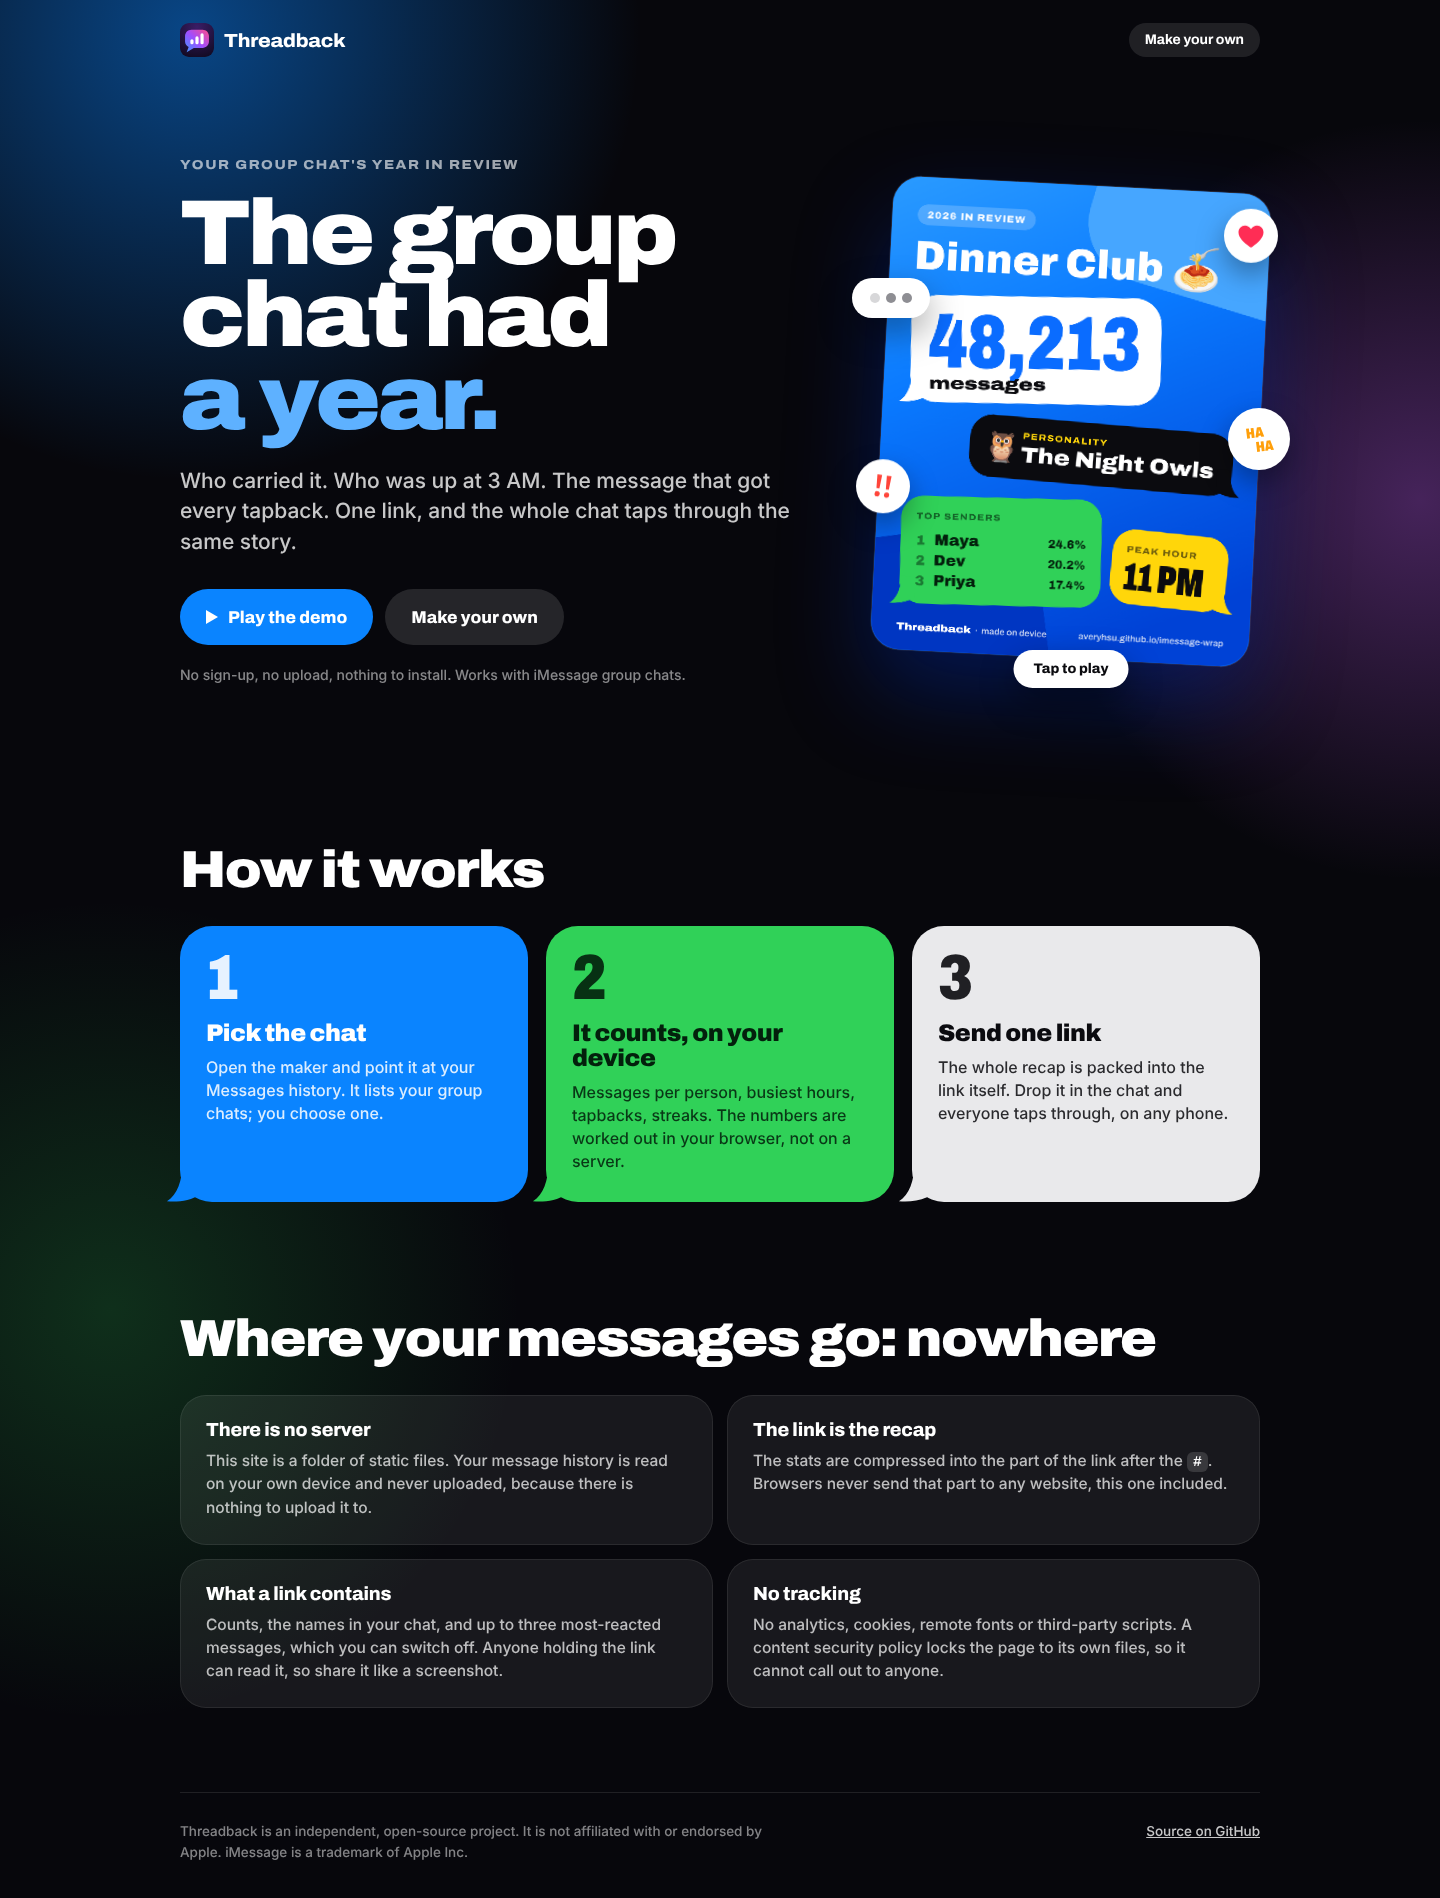
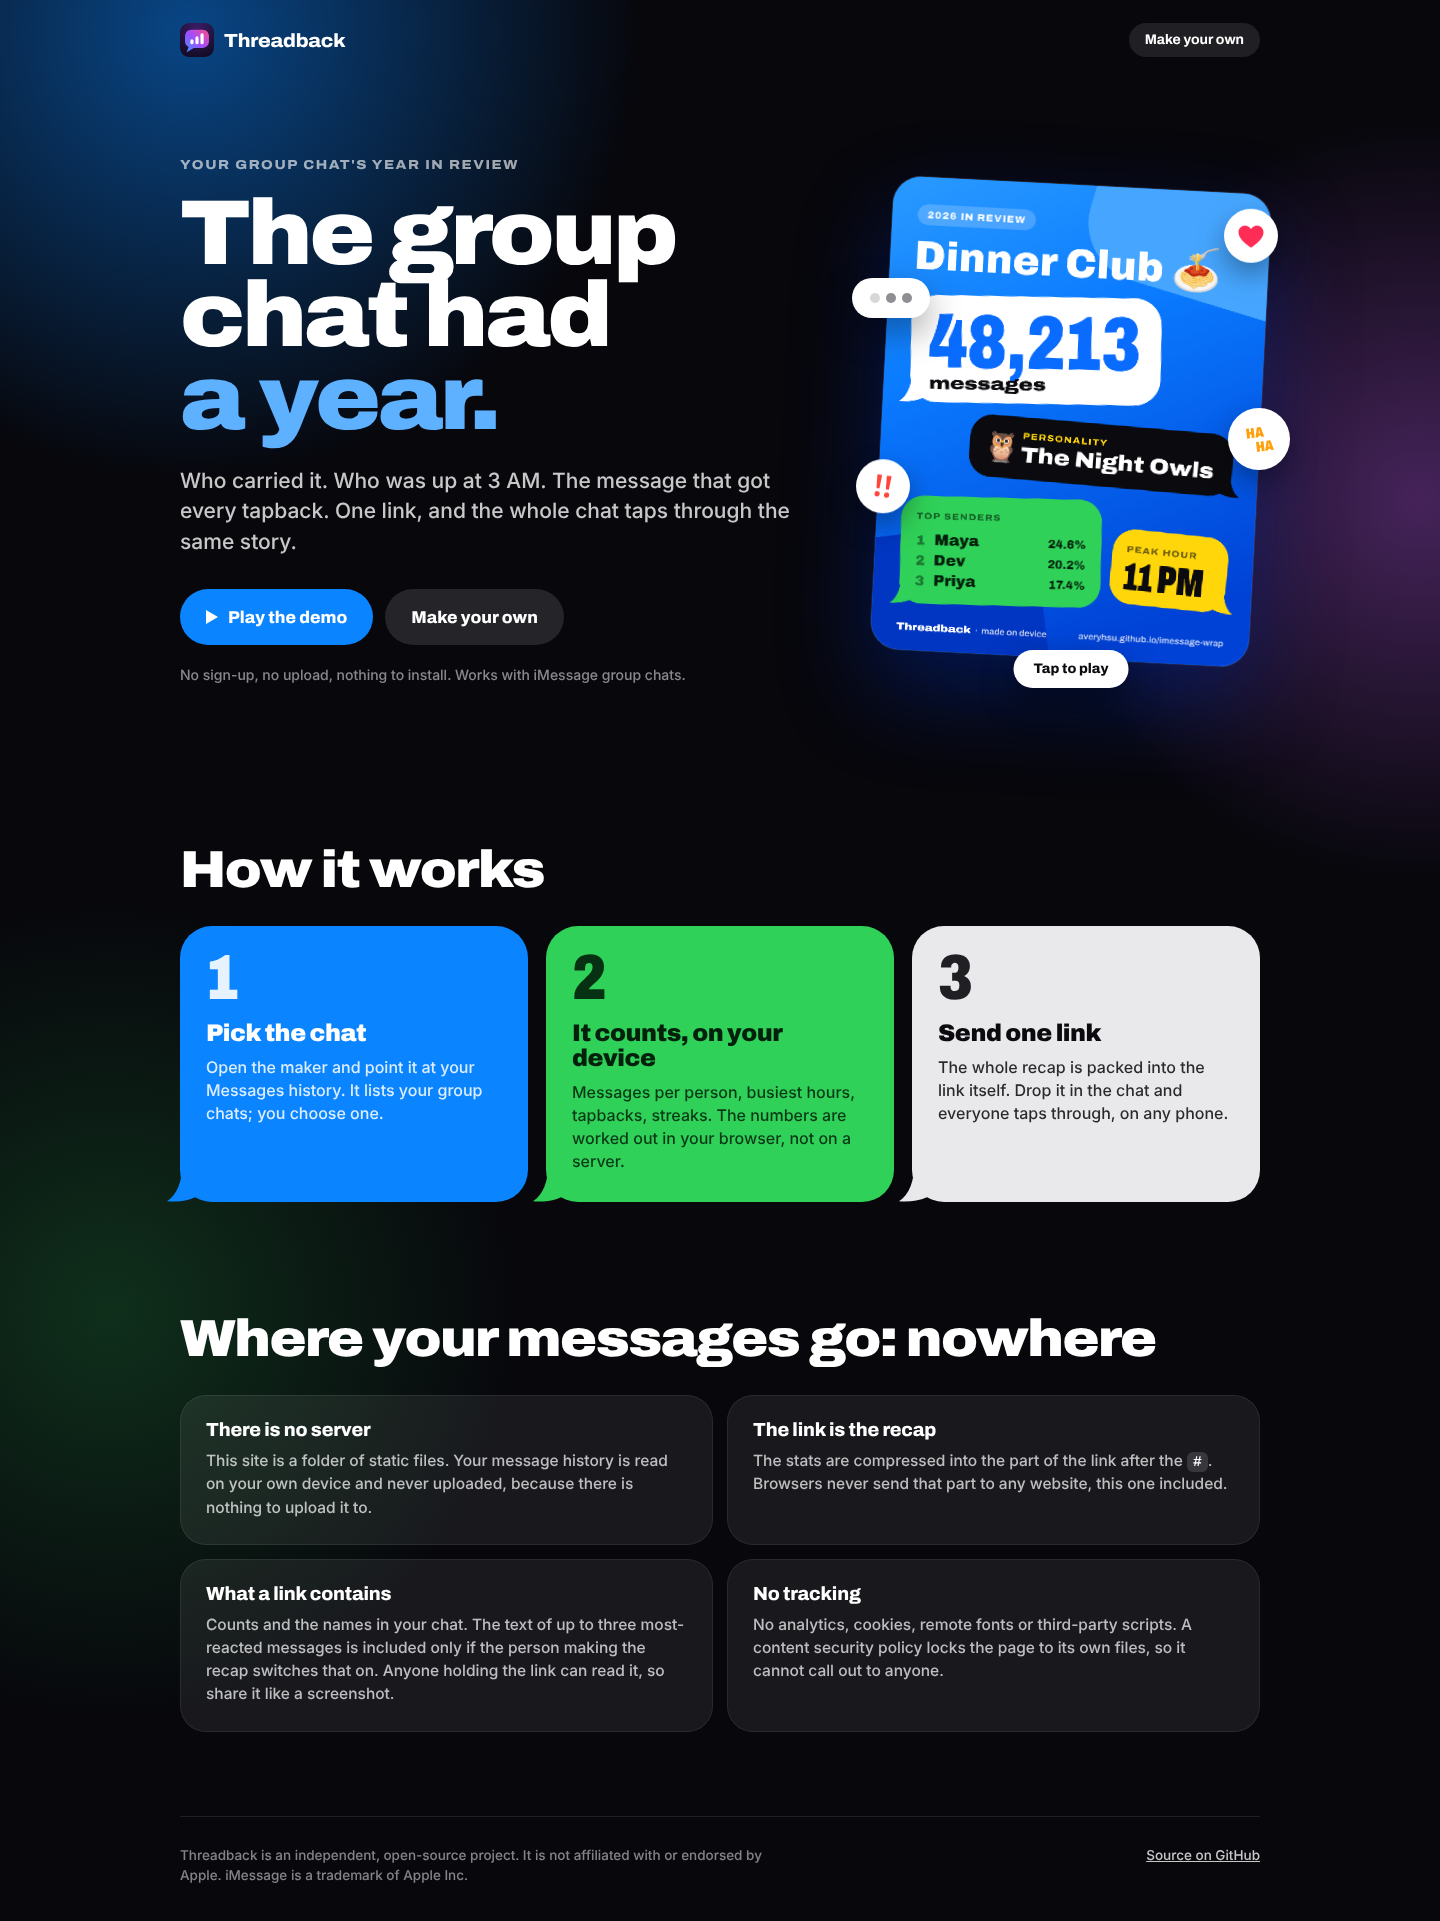
Quotes are opt-in in the link builder; masked names; a designed no-quote hero
- WrappedCodec.buildLink/planLink leave message text out unless called with
  { quotes: true } (docs/SCHEMA.md section 5, DECISIONS D12). A link built
  by the page from a directly loaded recap therefore carries no quotes.
- Message of the year without text (now the usual case) shows who wrote
  it, the date, and one badge per tapback kind landing one by one.
- People who arrive masked (ellipsis + last four digits) get a # avatar and are
  covered by a matrix fixture and card-name unit tests.
- Landing copy says message text is included only if the maker switches
  it on.

Claude-Session: https://claude.ai/code/session_01HsT3WJgxawzje31yUV686t

diff --git a/web/js/slides.js b/web/js/slides.js
@@ -625,44 +625,71 @@
     return out;
   }
 
+  function kindEntries(kinds) {
+    return Object.keys(kinds).map(function (k) { return [k, kinds[k]]; }).sort(function (a, z) { return z[1] - a[1]; });
+  }
+
+  /** Compact tapback counts for a runner-up: glyph ×n, glyph ×n. */
   function tally(kinds) {
-    var entries = Object.keys(kinds).map(function (k) { return [k, kinds[k]]; }).sort(function (a, z) { return z[1] - a[1]; });
-    return h('span', 'moty__tally', entries.map(function (e) {
+    return h('span', 'moty__tally', kindEntries(kinds).map(function (e) {
       return h('span', '', [G.icon(e[0]), '×' + F.int(e[1])]);
     }));
+  }
+
+  /**
+   * The hero when the recap carries no message text (the default: quotes are opt-in).
+   * The tapbacks are the content: one badge per kind with its count, landing one by one.
+   */
+  function tallyBadges(kinds, at, step) {
+    var entries = kindEntries(kinds);
+    var node = h('span', 'moty__tally moty__tally--badges', entries.map(function (e, i) {
+      return A(h('span', '', [G.tapback(e[0]), h('b', '', '×' + (e[1] >= 10000 ? F.compact(e[1]) : F.int(e[1])))]), 'drop', at + i * step, 0.5);
+    }));
+    // Up to three per row; four reads better as two and two.
+    return css(node, { '--cols': entries.length === 4 ? 2 : Math.min(3, entries.length) });
   }
 
   function moty(s) {
     var m = s.most_reacted[0];
     if (!m || !(m.reactions > 0 || m.text)) return null;
-    var slide = make('moty', { ink: 'dark', world: '#e9e9eb', backdrop: '#0a84ff', duration: 8000, label: 'Message of the year, from ' + m.sender + (m.text ? ': ' + m.text : '') });
+    var slide = make('moty', { ink: 'dark', world: '#e9e9eb', backdrop: '#0a84ff', duration: 8000, label: 'Message of the year, from ' + m.sender + (m.text ? ': ' + m.text : ', ' + F.int(m.reactions) + ' ' + F.plural(m.reactions, 'tapback')) });
     decos(slide, ['moty__d1', 'moty__d2']);
 
     var len = Array.from(m.text).length;
     var fs = len <= 22 ? 35 : len <= 56 ? 27 : len <= 105 ? 23 : len <= 150 ? 20 : 18;
     var clamp = len <= 22 ? 3 : len <= 56 ? 4 : len <= 105 ? 5 : 6;
-    var hasKinds = Object.keys(m.kinds).length > 0;
-    var badges = badgeList(m.kinds, 6);
-
-    var content = m.text
-      ? h('span', 'moty__text', m.text)
-      : (hasKinds ? tally(m.kinds) : h('span', 'moty__text', F.int(m.reactions) + ' ' + F.plural(m.reactions, 'tapback')));
-    var hero = A(bubble('blue', 'left', content, 'moty__bubble'), 'pop-l', 800);
-    css(hero, { '--fs': m.text ? fs : 26, '--clamp': clamp });
-
+    var kindCount = Object.keys(m.kinds).length;
     var landAt = 1650;
-    if (m.text && badges.length) {
-      var tbs = h('span', 'moty__tbs');
-      // row-reverse: the first badge in the DOM sits rightmost and lands first.
-      badges.forEach(function (kind, i) { tbs.appendChild(A(G.tapback(kind), 'drop', landAt + i * 290, 0.5)); });
-      hero.appendChild(tbs);
-      slide.cues.push({ at: landAt, haptic: 'light' });
+    var landStep = 290;
+    var landed = 0;
+    var hero;
+
+    if (m.text) {
+      // The quote, with its tapbacks landing on the corner of the bubble one by one.
+      hero = A(bubble('blue', 'left', h('span', 'moty__text', m.text), 'moty__bubble'), 'pop-l', 800);
+      css(hero, { '--fs': fs, '--clamp': clamp });
+      var badges = badgeList(m.kinds, 6);
+      if (badges.length) {
+        var tbs = h('span', 'moty__tbs');
+        // row-reverse: the first badge in the DOM sits rightmost and lands first.
+        badges.forEach(function (kind, i) { tbs.appendChild(A(G.tapback(kind), 'drop', landAt + i * landStep, 0.5)); });
+        hero.appendChild(tbs);
+        landed = badges.length;
+      }
+    } else if (kindCount) {
+      // No message text in this recap: the bubble holds what the chat did with it.
+      hero = A(bubble('blue', 'left', tallyBadges(m.kinds, landAt, landStep), 'moty__bubble moty__bubble--quiet'), 'pop-l', 800);
+      landed = kindCount;
+    } else {
+      hero = A(bubble('blue', 'left', h('span', 'moty__text', F.int(m.reactions) + ' ' + F.plural(m.reactions, 'tapback')), 'moty__bubble'), 'pop-l', 800);
+      css(hero, { '--fs': 30, '--clamp': 2 });
     }
-    var doneAt = landAt + (m.text ? badges.length : 0) * 290;
+    if (landed) slide.cues.push({ at: landAt, haptic: 'light' });
+    var doneAt = landAt + landed * landStep;
 
     var from = h('p', 'moty__from', [avatar(m.sender, true), b(m.sender), m.date ? h('span', '', '·  ' + F.date(m.date)) : null]);
     var receipt = m.reactions > 0
-      ? h('p', 'moty__receipt', [b(F.int(m.reactions) + ' ' + F.plural(m.reactions, 'tapback')), m.text ? '  ·  the most all year' : '  ·  the quote stayed in the chat'])
+      ? h('p', 'moty__receipt', [b(F.int(m.reactions) + ' ' + F.plural(m.reactions, 'tapback')), m.text ? '  ·  the most all year' : '  ·  the words stayed in the chat'])
       : null;
 
     var runners = s.most_reacted.slice(1, 3).filter(function (r) { return r.reactions > 0 || r.text; });

diff --git a/tests/js/codec.test.js b/tests/js/codec.test.js
@@ -79,22 +79,26 @@ test('parseLocation: fragment, query, demo and embed forms', () => {
 });
 
 test('buildLink: the demo recap fits without trimming', () => {
-  const plan = Codec.planLink(vector.stats);
+  const plan = Codec.planLink(vector.stats, { quotes: true });
   assert.deepStrictEqual(plan.steps, []);
   assert.ok(plan.url.startsWith(Config.BASE_URL + '#w1='));
   assert.ok(plan.length <= 4800);
-  assert.equal(plan.url, Codec.buildLink(vector.stats));
+  assert.equal(plan.url, Codec.buildLink(vector.stats, { quotes: true }));
   assert.deepStrictEqual(Codec.decode(Codec.parseLocation(plan.url).payload), vector.stats);
   assert.ok(Codec.buildLink(vector.stats, { form: 'query' }).startsWith(Config.BASE_URL + '?w1='));
 });
 
-test('buildLink: "no quotes" blanks every most_reacted text and nothing else', () => {
-  const plan = Codec.planLink(vector.stats, { quotes: false });
-  const got = Codec.decode(plan.payload);
-  assert.deepStrictEqual(got.most_reacted.map((m) => m.text), ['', '', '']);
+test('buildLink: message text is opt-in (no quotes unless asked)', () => {
   const expected = clone(vector.stats);
   expected.most_reacted.forEach((m) => { m.text = ''; });
-  assert.deepStrictEqual(got, expected);
+  // Default, explicit false and anything that is not exactly true all leave the text out.
+  for (const opts of [undefined, {}, { quotes: false }, { quotes: 'yes' }, { quotes: 1 }]) {
+    const got = Codec.decode(Codec.planLink(vector.stats, opts).payload);
+    assert.deepStrictEqual(got.most_reacted.map((m) => m.text), ['', '', ''], JSON.stringify(opts));
+    assert.deepStrictEqual(got, expected, 'nothing else changes');
+  }
+  assert.ok(!Codec.buildLink(vector.stats).includes(Codec.encode(vector.stats)), 'the default link is not the quoted payload');
+  assert.deepStrictEqual(Codec.decode(Codec.planLink(vector.stats, { quotes: true }).payload), vector.stats, 'quotes: true keeps the text');
   assert.equal(vector.stats.most_reacted[0].text.length > 0, true, 'input is not mutated');
 });
 
@@ -120,7 +124,7 @@ test('buildLink: trim ladder is applied in order and stops as soon as the link f
     const stats = bulky(noise);
     const untrimmedLength = (Config.BASE_URL + '#w1=' + Codec.encode(stats)).length;
     let plan;
-    try { plan = Codec.planLink(stats); } catch (e) { assert.equal(e.code, 'too_long'); seen.add('error'); continue; }
+    try { plan = Codec.planLink(stats, { quotes: true }); } catch (e) { assert.equal(e.code, 'too_long'); seen.add('error'); continue; }
     assert.ok(plan.length <= 4800, `fits (${plan.length})`);
     assert.equal(plan.url.length, plan.length);
     // Steps are always a prefix of the ladder.
@@ -143,7 +147,7 @@ test('buildLink: trim ladder is applied in order and stops as soon as the link f
 
     // One step fewer would not have fit.
     if (k > 0) {
-      const fewer = Codec.planLink(stats, { maxLength: 1e9 }).stats; // untouched copy
+      const fewer = Codec.planLink(stats, { maxLength: 1e9, quotes: true }).stats; // untouched copy
       const ladder = [
         (s) => s.awards.forEach((a) => delete a.detail),
         (s) => s.most_reacted.forEach((m) => { const c = Array.from(m.text); if (c.length > 60) m.text = c.slice(0, 60).join('') + '…'; }),
@@ -167,7 +171,7 @@ test('buildLink: short quotes are left alone by the 60-character step', () => {
   const afterStepOne = clone(stats);
   afterStepOne.awards.forEach((a) => delete a.detail);
   const budget = (Config.BASE_URL + '#w1=' + Codec.encode(afterStepOne)).length - 1; // step 1 alone is not enough
-  const plan = Codec.planLink(stats, { maxLength: budget });
+  const plan = Codec.planLink(stats, { maxLength: budget, quotes: true });
   assert.deepStrictEqual(plan.steps, Codec.TRIM_STEPS.slice(0, 2));
   assert.equal(plan.stats.most_reacted[0].text, 'short one');
   assert.equal(plan.stats.most_reacted[1].text, '🍝'.repeat(60));
@@ -178,7 +182,7 @@ test('buildLink: short quotes are left alone by the 60-character step', () => {
 test('buildLink: fails with a clear error when nothing fits, and never mutates its input', () => {
   const stats = bulky(1000);
   const before = JSON.stringify(stats);
-  assert.throws(() => Codec.buildLink(stats), (e) => {
+  assert.throws(() => Codec.buildLink(stats, { quotes: true }), (e) => {
     assert.equal(e.name, 'WrappedCodecError');
     assert.equal(e.code, 'too_long');
     assert.match(e.message, /4800/);

diff --git a/tests/js/card.test.js b/tests/js/card.test.js
@@ -1,0 +1,42 @@
+'use strict';
+// The share card is drawn on a canvas (covered end to end in tests/e2e); the one piece of
+// pure logic in it is how a name is shown on something people will post publicly.
+const test = require('node:test');
+const assert = require('node:assert/strict');
+
+require('../../web/js/config.js');
+require('../../web/js/format.js');
+const Card = require('../../web/js/card.js');
+
+test('card size is 4:5 at 1080 × 1350', () => {
+  assert.equal(Card.WIDTH, 1080);
+  assert.equal(Card.HEIGHT, 1350);
+});
+
+test('cardName: first names only', () => {
+  assert.equal(Card.cardName('Maya'), 'Maya');
+  assert.equal(Card.cardName('Maya Okafor-Lindqvist'), 'Maya');
+  assert.equal(Card.cardName('  Dev   Patel '), 'Dev');
+  assert.equal(Card.cardName('🦖 Dev'), '🦖');
+  assert.equal(Card.cardName('Bartholomew-Maximilian-Alexander'), 'Bartholomew-Maxi…', 'very long first names are cut');
+  assert.equal(Card.cardName(''), '?');
+  assert.equal(Card.cardName(null), '?');
+});
+
+test('cardName: people who arrive masked stay as they are (SCHEMA §2)', () => {
+  assert.equal(Card.cardName('…0001'), '…0001');
+  assert.equal(Card.cardName('…4417'), '…4417');
+  assert.equal(Card.cardName('jo.smith'), 'jo.smith');
+  assert.equal(Card.cardName('averyveryverylon…'), 'averyveryverylon…', 'a masked e-mail already cut to 16 + … is not cut again');
+});
+
+test('cardName: a raw handle from older data never reaches the card', () => {
+  assert.equal(Card.cardName('+1 (555) 010-0001'), '…01');
+  assert.equal(Card.cardName('+15550100001'), '…01');
+  assert.equal(Card.cardName('555 010 0001'), '…01');
+  assert.equal(Card.cardName('someone@example.com'), 'S…');
+  for (const raw of ['+1 (555) 010-0001', '+15550100001', 'someone@example.com']) {
+    const shown = Card.cardName(raw);
+    assert.ok(!/\d{5,}/.test(shown) && !shown.includes('@'), `${raw} → ${shown}`);
+  }
+});

diff --git a/web/css/story.css b/web/css/story.css
@@ -1233,6 +1233,22 @@
 
 .moty__tally .glyph { font-size: calc(var(--u) * 30); }
 
+.moty__bubble--quiet { max-width: 100%; padding: calc(var(--u) * 15) calc(var(--u) * 20) calc(var(--u) * 15) calc(var(--u) * 16); }
+
+/* No message text: one badge per tapback kind with its count, in a tidy grid. */
+.moty__tally--badges {
+  display: grid;
+  grid-template-columns: repeat(var(--cols, 3), auto);
+  justify-content: start;
+  gap: calc(var(--u) * 10) calc(var(--u) * 14);
+  padding: 0;
+}
+
+.moty__tally--badges > span { gap: calc(var(--u) * 6); }
+.moty__tally--badges .tb { width: calc(var(--u) * 40); height: calc(var(--u) * 40); font-size: calc(var(--u) * 23); box-shadow: 0 calc(var(--u) * 3) calc(var(--u) * 10) rgba(0, 40, 120, 0.28); }
+.moty__tally--badges .tb .glyph { font-size: inherit; }
+.moty__tally--badges b { font: 900 calc(var(--u) * 22) / 1 var(--font-display); font-variant-numeric: tabular-nums; color: #fff; white-space: nowrap; }
+
 .moty__tbs {
   position: absolute;
   top: calc(var(--u) * -27);

diff --git a/web/js/codec.js b/web/js/codec.js
@@ -140,7 +140,8 @@
 
   /**
    * Work out the link for a recap.
-   *   opts.quotes    false → blank every most_reacted[].text ("no quotes" mode). Default true.
+   *   opts.quotes    true → keep most_reacted[].text. Message text is opt-in (SCHEMA §5,
+   *                  DECISIONS D12): by default every quote is replaced with "".
    *   opts.base      base URL. Default WrappedConfig.BASE_URL.
    *   opts.maxLength whole-URL budget. Default 4,800.
    *   opts.form      'fragment' (default) or 'query'.
@@ -155,7 +156,7 @@
     var form = opts.form === 'query' ? 'query' : 'fragment';
 
     var working = clone(stats);
-    if (opts.quotes === false && Array.isArray(working.most_reacted)) {
+    if (opts.quotes !== true && Array.isArray(working.most_reacted)) {
       working.most_reacted.forEach(function (m) { if (m && typeof m === 'object') m.text = ''; });
     }
 

diff --git a/web/js/format.js b/web/js/format.js
@@ -163,9 +163,14 @@
     return "That's War and Peace, " + int(wp) + ' times over.';
   }
 
-  /** First visible character of a name, upper-cased, for avatars. */
+  /**
+   * First visible character of a name, upper-cased, for avatars. People without a contact
+   * name arrive masked as "…0001" (docs/SCHEMA.md §2): they get "#".
+   */
   function initial(name) {
-    var chars = Array.from(String(name == null ? '' : name).trim());
+    var text = String(name == null ? '' : name).trim();
+    if (/^\u2026\s*\d/.test(text)) return '#';
+    var chars = Array.from(text.replace(/^[\u2026.\s]+/, ''));
     return chars.length ? chars[0].toUpperCase() : '?';
   }
 

diff --git a/tests/js/format.test.js b/tests/js/format.test.js
@@ -128,6 +128,9 @@ test('small helpers', () => {
   assert.equal(F.initial('maya'), 'M');
   assert.equal(F.initial('  🍝 club'), '🍝');
   assert.equal(F.initial(''), '?');
+  assert.equal(F.initial('…0001'), '#', 'a masked phone number gets a neutral avatar');
+  assert.equal(F.initial('jo.smith'), 'J', 'a masked e-mail keeps its first letter');
+  assert.equal(F.initial('…'), '?');
   assert.equal(F.truncate('hello world', 5), 'hello…');
   assert.equal(F.truncate('hello', 5), 'hello');
   assert.equal(F.truncate('🍝🍝🍝', 2), '🍝🍝…');

diff --git a/web/index.html b/web/index.html
@@ -132,7 +132,7 @@
       </li>
       <li>
         <h3>What a link contains</h3>
-        <p>Counts, the names in your chat, and up to three most-reacted messages, which you can switch off. Anyone holding the link can read it, so share it like a screenshot.</p>
+        <p>Counts and the names in your chat. The text of up to three most-reacted messages is included only if the person making the recap switches that on. Anyone holding the link can read it, so share it like a screenshot.</p>
       </li>
       <li>
         <h3>No tracking</h3>

diff --git a/web/js/player.js b/web/js/player.js
@@ -508,6 +508,8 @@
     if (!S) return '';
     if (S.opts.payload) return Config.BASE_URL + '#' + Config.PAYLOAD_KEY + '=' + S.opts.payload;
     if (S.opts.demo) return Config.BASE_URL + '?demo=1';
+    // A recap handed over directly (WrappedApp.load) may show quotes on this device, but a
+    // link built from it carries no message text: quotes are opt-in at the maker (D12).
     return Codec.buildLink(S.stats);
   }
 
